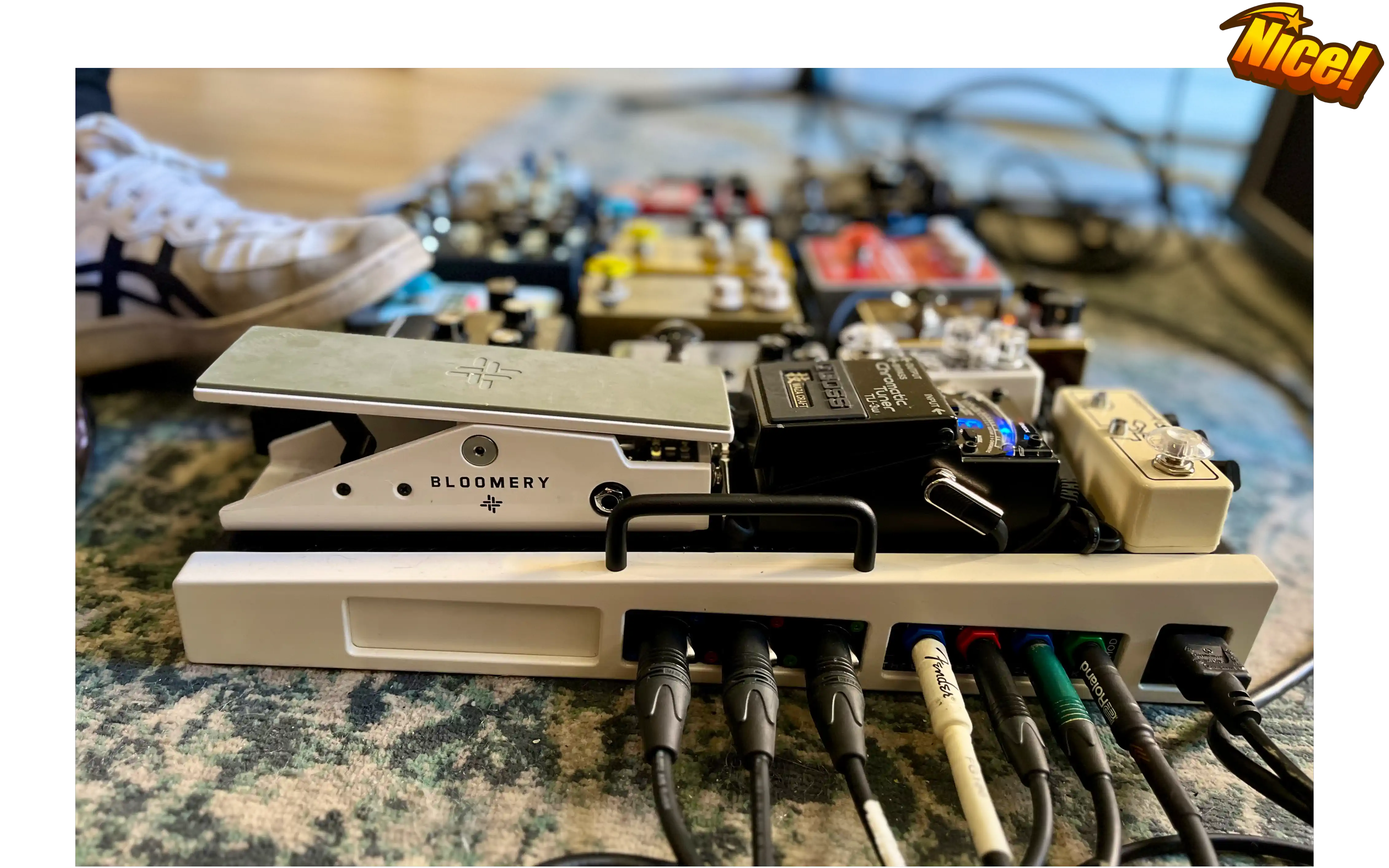
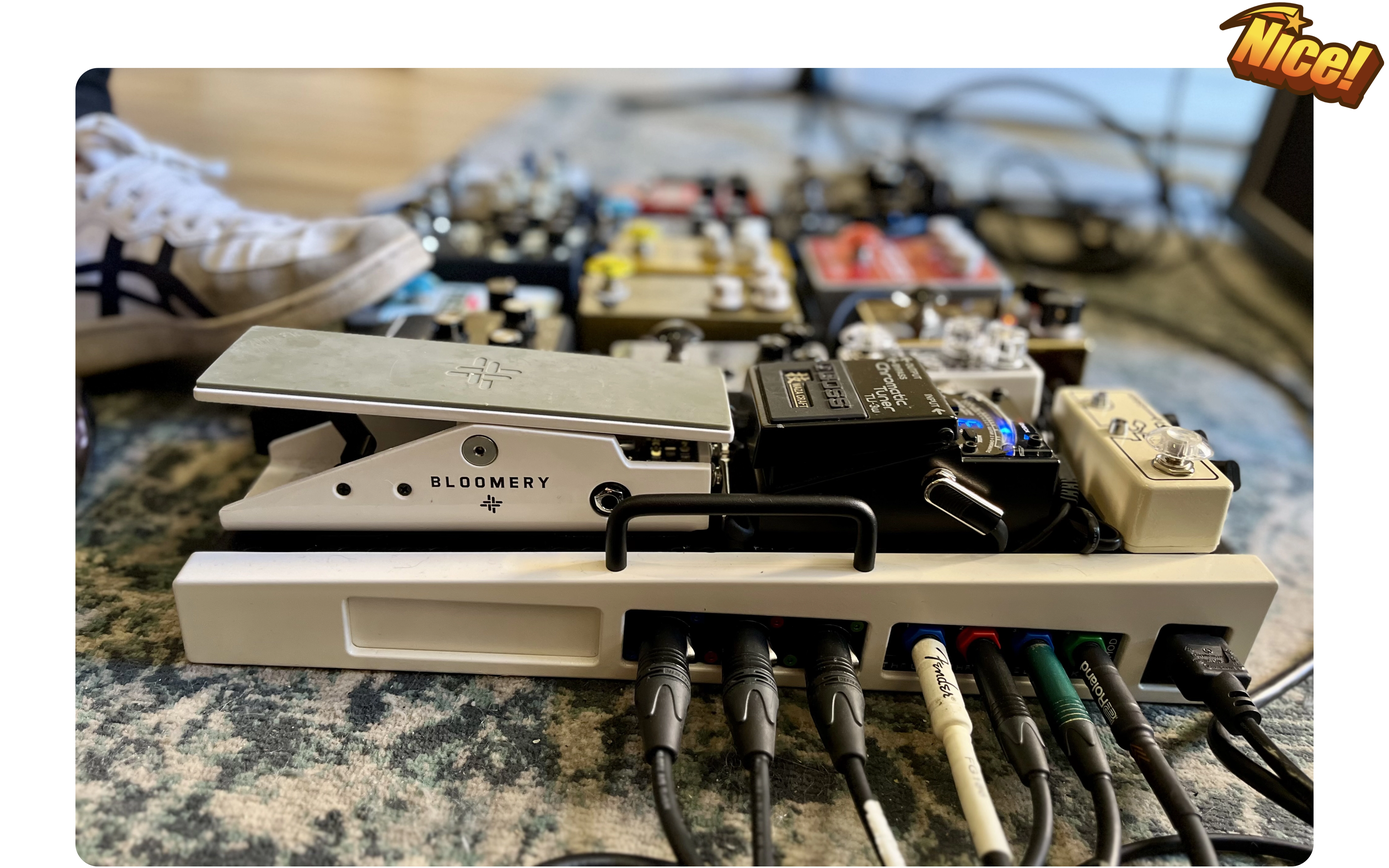
Quartz sync: Aug 30, 2024, 2:04 PM

diff --git a/quartz/styles/custom.scss b/quartz/styles/custom.scss
@@ -199,8 +199,8 @@ video,
   // left: 50%;
   // transform: translateX(-50%);
   border-radius: $imageRadius;
-  filter: drop-shadow(1px 2px 6px #00000080) drop-shadow(2px 4px 12px #00000040)
-    drop-shadow(3px 6px 18px #00000020);
+  filter: drop-shadow(3px 5px 12px #00000025) drop-shadow(6px 9px 15px #00000020)
+    drop-shadow(9px 13px 18px #00000010);
   // max-width: 90%;
   margin-inline: auto;
   transform: rotate(1deg);
